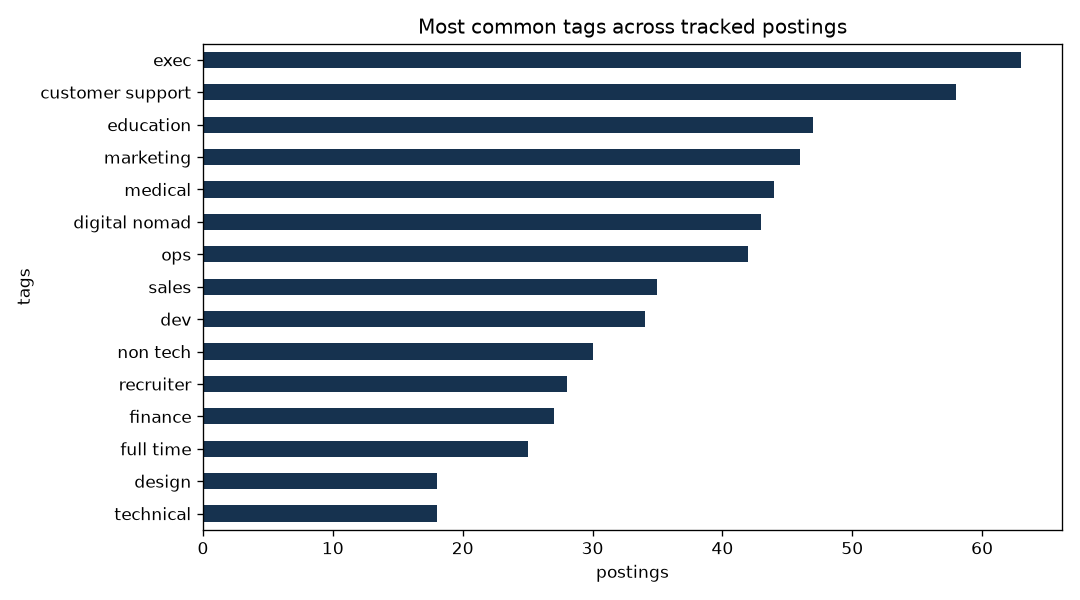
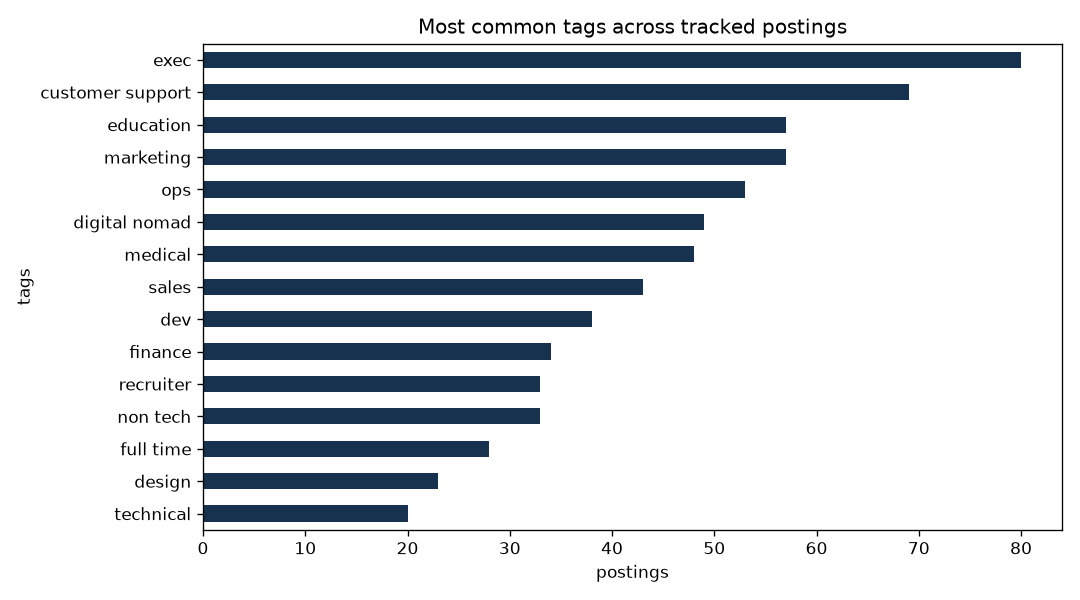
Daily data update

diff --git a/README.md b/README.md
@@ -13,15 +13,15 @@ reporting end to end.
 ## Dashboard
 
 <!-- dashboard:start -->
-*Last updated: 2026-08-26 13:53 UTC*
+*Last updated: 2026-08-27 22:48 UTC*
 
 | | |
 |---|---|
-| Postings tracked | 100 |
-| Companies | 91 |
-| New since last run | 1 |
-| Data/ML-related share | 16% |
-| Median advertised max salary | $200,000 |
+| Postings tracked | 130 |
+| Companies | 115 |
+| New since last run | 30 |
+| Data/ML-related share | 13% |
+| Median advertised max salary | $750,000 |
 
 ![Postings per week](reports/figures/postings_per_week.png)
 
